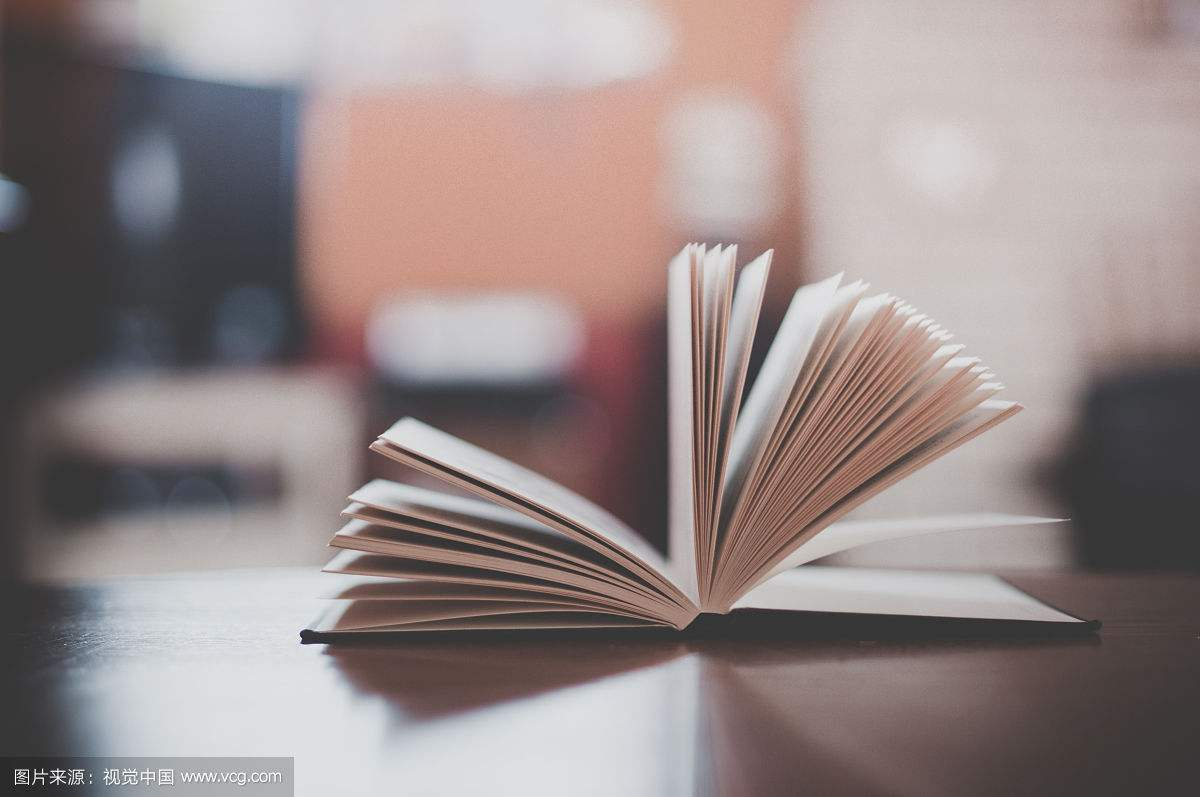
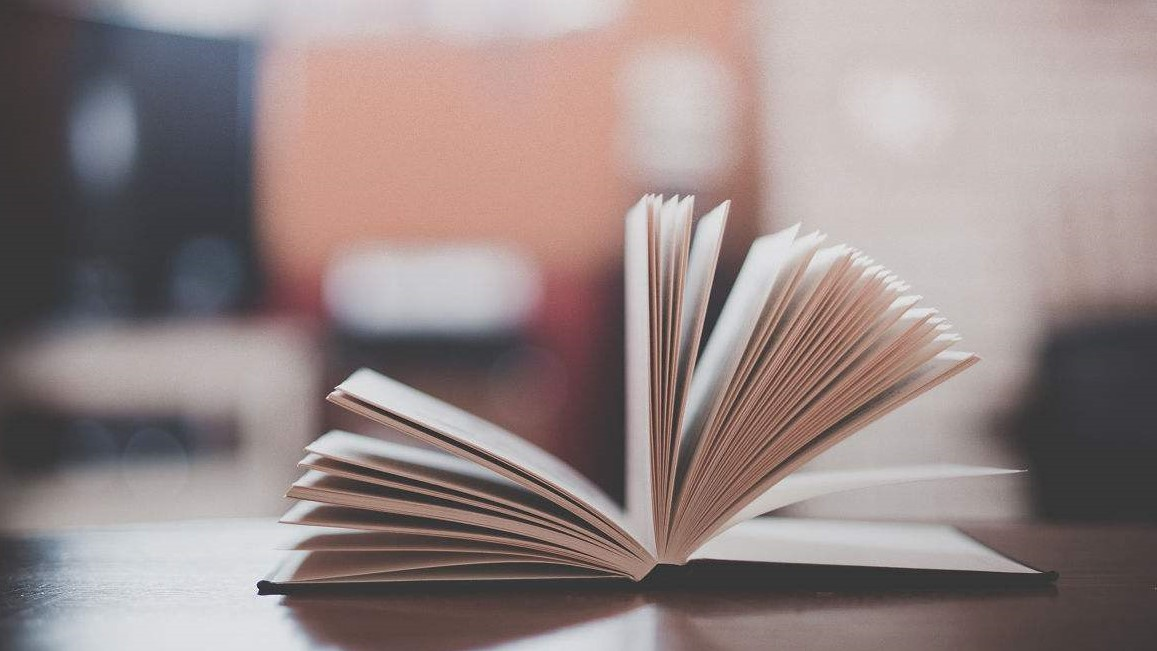
调整优化 前端布局自适应

diff --git a/src/main/resources/static/login.html b/src/main/resources/static/login.html
@@ -28,40 +28,38 @@
     </div>
 </div>
 <div class="slider_bg" id="mainContainer">
-    <div class="container">
-        <div id="content">
-            <div id="word">
-                <h1>LOGIN</h1>
+            <div class="container">
+                <div id="content">
+            <div id="word"><h1>LOGIN</h1></div>
                 <div id="form">
-                    <form action="" method="post" onsubmit="return finalCheck()">
-                        <table height="253" id="tab">
+                    <form style="padding-right: 230px;" action="main.html" method="post" onsubmit="return finalCheck(this)">
+                        <table height="253" id="table">
                             <tr>
                                 <td width="95" height="68" style="color: aliceblue; text-align: right;" >用 户：</td>
-                                <td width="80"><input id="name" path="username" placeholder="请输入学号" class="ipt"/></td>
+                                <td width="80"><input type="text" name="account" id="name"  placeholder="请输入学号" class="ipt" onkeyup="check()" /></td>
                             </tr>
                             <tr>
                                 <td height="58" style="color: aliceblue; text-align: right;">密 码：</td>
-                                <td><input id="password" path="password"  placeholder="请输入密码" class="ipt"/> </td>
+                                <td><input type="password" name="password" id="passw"  placeholder="请输入密码" class="ipt" onkeyup="check1()"/> </td>
                             </tr>
                             <tr>
-                                <td colspan="2" style="text-align: center;"><input type="submit" value="登录" class="buttom"/>
+                                <td colspan="2" style="text-align: center;"><input type="submit" value="登 录" class="buttom" />
                                     &nbsp;&nbsp;&nbsp;&nbsp;
-                                    <input type="reset" value="重置" class="buttom" /></td>
+                                    <input type="reset" value="重 置" class="buttom" /></td>
                             </tr>
                             <tr>
-                                <td colspan="2" style="text-align: center; font-size: 19px;"><a href="">用户注册</a></td>
+                                <td colspan="2" style="text-align: center; font-size: 19px;padding-bottom: 14px;"><a href="">还没帐号？注册</a></td>
                             </tr>
                         </table> 
                     </form>
                 </div>
-            </div>
         </div>
     </div>
 </div>
 <script type="text/javascript">
     $(function() {
         $('a[href*=#]:not([href=#])').click(function() {
-            if (location.pathname.replace(/^\//,'') == this.pathname.replace(/^\//,'') && location.hostname == this.hostname) {
+            if (location.name.replace(/^\//,'') == this.name.replace(/^\//,'') && location.hostname == this.hostname) {
 
                 var target = $(this.hash);
                 target = target.length ? target : $('[name=' + this.hash.slice(1) +']');
@@ -75,19 +73,32 @@
         });
     });
 
-    function finalCheck() {
-        var name = $("#account").val();
-        var password = $("#password").val();
-        if(name === "" || name == null){
-            alert("请输入用户名！");
-            return false;
+    function finalCheck(form) {
+        with(form){
+            if(name.value.length<=0){
+                name.focus();
+                alert("请输入学号或工号！");
+                return false;
+            }
+            if(passw.value.length<=0){
+                passw.focus();
+                alert("请输入密码！");
+                return false;
+            }
         }
-        if(password === "" || password == null){
-            alert("请输入密码！");
-            return false;
-        }
-        return true;
     }
+    function check(){
+        if(name.value.length<=0)
+            tip1.innerHTML="请输入学号或工号！";
+    }
+    function check1() {
+        if (passw.value.length <= 0)
+            tip2.innerHTML = "请输入密码！";
+        if(passw.value.length<6)
+            tip2.innerHTML ="密码至少为6位";
+
+    }
+ 
 </script>
 <div class="footer_bg" id="contact">
     <div class="container"></div>

diff --git a/src/main/resources/static/css/global.css b/src/main/resources/static/css/global.css
@@ -31,9 +31,9 @@ a{
     color:#e0eacf;
 }
 #mainContainer{
-    background: url("../imgs/book.jpg");
+    background: url("../imgs/b2.jpg");
     background-size:cover;
-    background-position-y: -120px;
+
     height: 690px;
     width:100%;
 }
@@ -56,19 +56,18 @@ a{
     vertical-align: bottom;
     text-align: left;
 }
-#form{
-    height: 428px;
-    width: 100%;
-    font-size: 1.8em;
-    margin-top: -30px;
-    text-align: center;
 
-}
 #word {
     margin-left: 100px;
 }
+#word h1{
+    font-size: 2.8em;
+    text-align: center;
+    margin-left: -105px;
+    color: rgb(243, 248, 250);
+}
 .word{
-    margin-top: -30px;
+    margin-top: -10px;
     margin-left: 100px;
 }
 .word h1{
@@ -77,25 +76,34 @@ a{
     margin-left: -105px;
     color: rgb(243, 248, 250);
 }
-#tab {
-    margin-left: 300px;
-    margin-top: 50px;
-}
-#word h1{
-    font-size: 2.8em;
+#form{
+    display: block;
+    position: relative;
+    vertical-align:middle;
+    height: 428px;
+    font-size: 1.8em;
     text-align: center;
-    margin-left: -105px;
-    color: rgb(243, 248, 250);
+    padding-left: 25%;
+    padding-right: 25%;
 }
 #form a{
-    color: #a4707f;
+    color: #ccc;
     font-size: 0.8em;
 }
+#table {
+    margin-top: 50px;
+    width: 360px;
+    margin-left: 33.5%;
+
+
+}
+
 input{
     border: 1px solid #ccc;
     border-radius: 5px;
     padding-left:5px;
     color: black;
+
 }
 
 input:focus{
@@ -117,7 +125,7 @@ a:hover, .actionDiv li:hover{
 }
 
 .button{
-    background: rgba(241, 190, 170, 0.91);
+    background: rgb(168, 128, 113);
     width: 195px;
     height: 30px;
     text-align: center;
@@ -128,7 +136,7 @@ a:hover, .actionDiv li:hover{
     border-radius: 5px;
 }
 .buttom {
-    background: rgba(241, 190, 170, 0.91);
+    background: rgb(168, 128, 113);
     width: 95px;
     height: 30px;
     text-align: center;
@@ -139,7 +147,7 @@ a:hover, .actionDiv li:hover{
 }
 .ipt {
     width: 199px;
-    height: 22px;
+    height: 30px;
     background: #fff;
     text-indent: 3px;
     line-height: 20px;
@@ -175,10 +183,15 @@ a:hover, .actionDiv li:hover{
     color:whitesmoke;
 }
 
-
+.searchBox{
+    padding-top: 20px;
+    display: block;
+    position: relative;
+    vertical-align:middle;
+}
 .searchBox form {
     position: relative;
-    width: 400px;
+    width: 480px;
     margin: 0 auto;
 }
 
@@ -187,33 +200,30 @@ a:hover, .actionDiv li:hover{
     outline: none;
 }
 
-.searchBox{
-    position:absolute;
-    right: 565px;
-    width: 430px;
-}
+
 
 .searchBox input {
     border: 2px solid #fdfef9;
-    border-radius: 5px;
-    background: #F9F0DA;
+    border-radius: 5px 0 0 5px;
+    background: #f7efd2;
     color: #9E9C9C;
     width: 400px;
-    height: 35px;
-    margin-right: -10px;
+    height: 38px;
+    margin-right: -4px;
+
 }
 .searchBox button {
-    height: 35px;
+
+    height: 38px;
     width: 42px;
     cursor: pointer;
     position: absolute;
-    margin-right: -45px;
-    background: rgba(241, 190, 170, 0.91);
+    background: rgb(168, 128, 113);
     border-radius: 0 5px 5px 0;
 }
 .searchBox button:before {
     content: "\f002";
     font-family: FontAwesome;
-    font-size: 16px;
+    font-size: 18px;
     color: #F9F0DA;
 }

diff --git a/src/main/resources/static/main.html b/src/main/resources/static/main.html
@@ -30,15 +30,14 @@
 <div class="slider_bg" id="mainContainer">
     <div class="container">
         <div id="content">
-             <div class="word"><h1>TIME TO READ</h1></div>
-            <div class="searchBox">
+             <div class="word"><h1>TIME TO READ</h1>
                     <link href="http://cdn.bootcss.com/font-awesome/4.7.0/css/font-awesome.min.css" rel="stylesheet" />
                     <link rel="stylesheet" href="<%=request.getContextPath()%>/css/ZCW/searchbox.css" />
                     <form method="post" action="<%=request.getContextPath()%>/getappbykeyword.search">
                         <input type="text" name="keyword" placeholder="请输入您要搜索的图书...">
                         <button type="submit"></button>
                     </form>
-                </div>
+                    </div>
         </div>
     </div>
 </div>

diff --git a/src/main/resources/static/css/bootstrap.css b/src/main/resources/static/css/bootstrap.css
@@ -1401,8 +1401,8 @@ pre code {
     }
 }
 table {
-    max-width: 100%;
-    background-color: transparent;
+
+    background-color: rgba(0, 0, 0, .25);
 }
 th {
     text-align: left;

diff --git a/src/main/resources/static/css/style.css b/src/main/resources/static/css/style.css
@@ -383,7 +383,7 @@ body {
 /* start footer */
 .footer1_bg{
     background: #222222;
-    height: 80px;
+    height: 150px;
 }
 .copy p{
     color: #c9c9c9;
